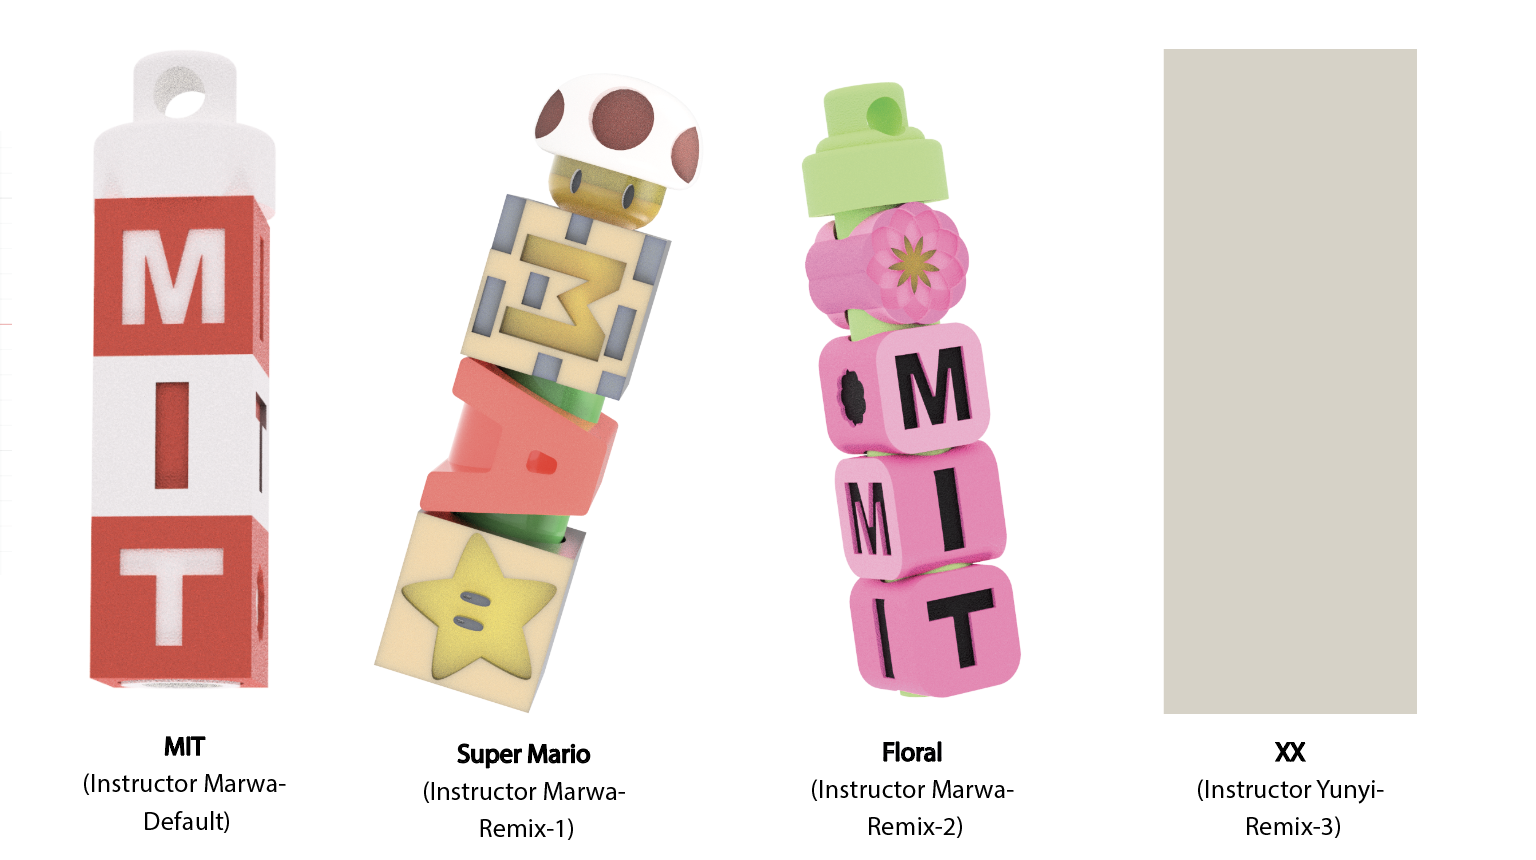
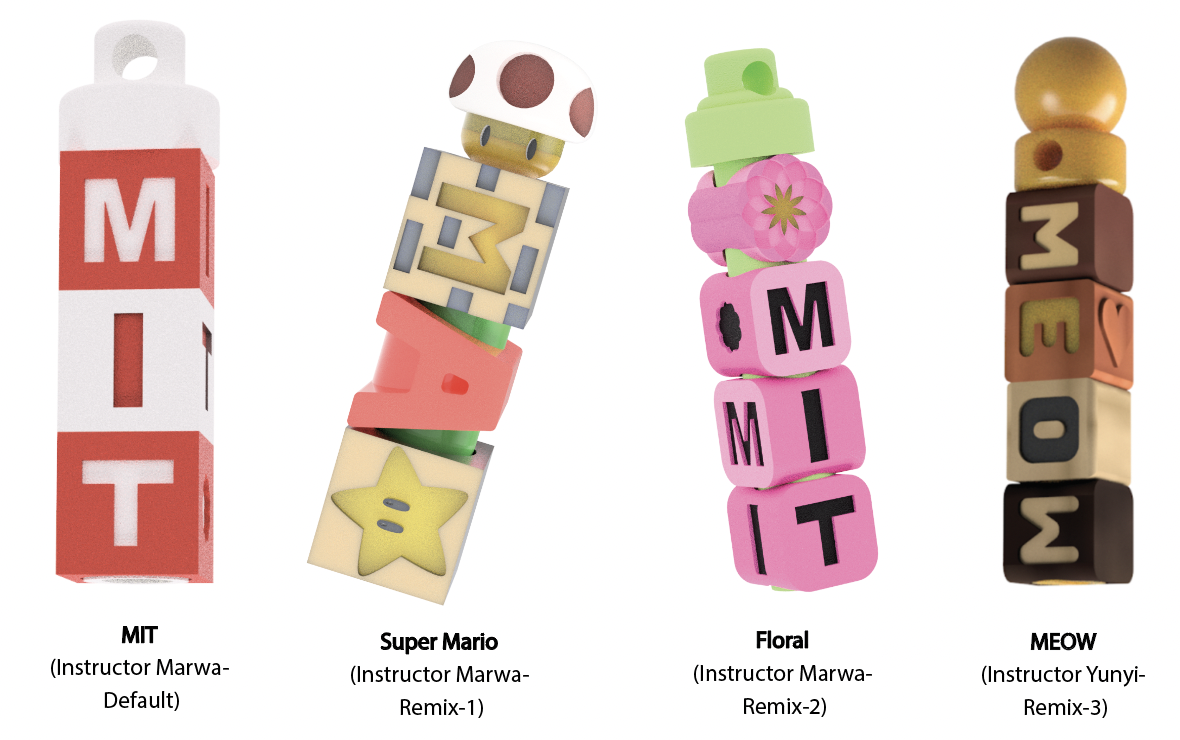
replace images in lab-2 (add Yunyi's)

diff --git a/labs/beginner/lab4.html b/labs/beginner/lab4.html
@@ -533,7 +533,7 @@ After you ask for instructor check-off, refer to the two sections with mechanism
 
 
                 
-                <p> Download the starting auatomata box in the format of "Fusion archive" from the drop-down menu. </p>
+                <p> Download the starting automata box in the format of "Fusion archive" from the drop-down menu. </p>
                 
                 
                                 <img src=media/starting_box_email_prompt.png class="rounded mx-auto d-block img-fluid"> 
@@ -651,7 +651,14 @@ After you ask for instructor check-off, refer to the two sections with mechanism
     <h4>Part (14): Preparing files for laser-cutting  (10 minutes)</h4>
 
                 <hr>
-    <h4>Part (15): Exporting files for laser-cutting  (10 minutes)</h4>
+    
+     <h4>Part (15): Importing Decals  (10 minutes)</h4>
+
+<hr> 
+    <h4>Part (16): Exporting files for laser-cutting  (10 minutes)</h4>
+
+                <hr> 
+    <h4>Part (17): Lab Deliverable  (10 minutes)</h4>
 
 
 
